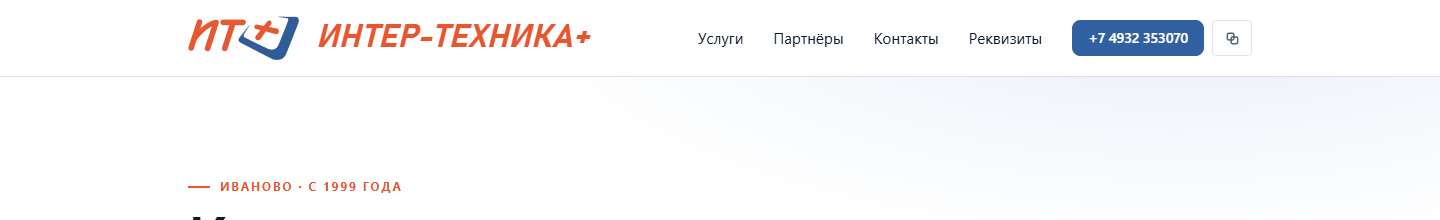
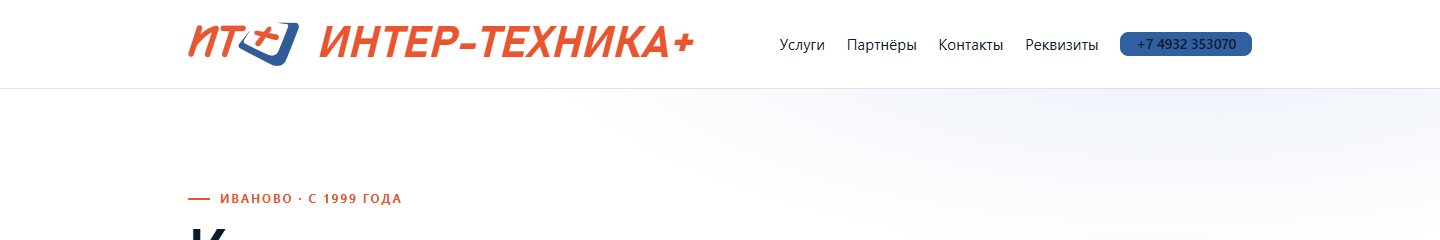
Подпись в шапке по высоте букв логотипа (44,7px); шапка разгружена

diff --git a/index.html b/index.html
@@ -82,12 +82,7 @@
         <a href="#partners">Партнёры</a>
         <a href="#contacts">Контакты</a>
         <a href="requisites.html">Реквизиты</a>
-        <span class="phone-group">
-          <a class="btn btn--sm" href="tel:+74932353070">+7 4932 353070</a>
-          <button class="copy copy--icon" type="button" data-copy="+7 4932 353070" aria-label="Скопировать номер телефона" title="Скопировать номер">
-            <svg viewBox="0 0 16 16" aria-hidden="true"><rect x="2.5" y="2.5" width="7" height="7" rx="1.5"/><rect x="6.5" y="6.5" width="7" height="7" rx="1.5"/></svg>
-          </button>
-        </span>
+        <a class="btn btn--sm" href="tel:+74932353070">+7 4932 353070</a>
       </nav>
     </div>
   </header>

diff --git a/assets/style.css b/assets/style.css
@@ -145,7 +145,7 @@ p:last-child { margin-bottom: 0; }
   align-items: center;
   justify-content: space-between;
   gap: 24px;
-  min-height: 76px;
+  min-height: 88px;
 }
 
 .brand {
@@ -165,7 +165,7 @@ p:last-child { margin-bottom: 0; }
 
 .brand-name {
   font-family: var(--font-display);
-  font-size: 2rem;
+  font-size: 2.75rem;
   font-weight: 700;
   font-style: italic;
   text-transform: uppercase;
@@ -175,7 +175,7 @@ p:last-child { margin-bottom: 0; }
   color: var(--red);
 }
 
-@media (max-width: 1200px) {
+@media (max-width: 1150px) {
   .brand-name { display: none; }
 }
 
@@ -184,7 +184,7 @@ p:last-child { margin-bottom: 0; }
 .nav {
   display: flex;
   align-items: center;
-  gap: clamp(18px, 2.4vw, 30px);
+  gap: clamp(14px, 1.5vw, 22px);
   font-size: .95rem;
 }
 
